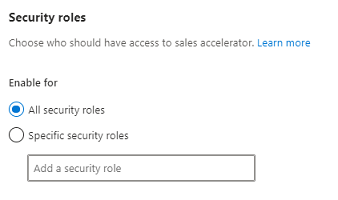
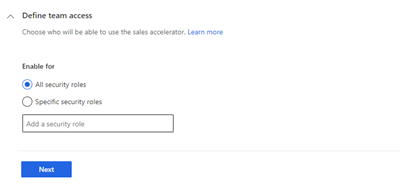
sa setup updated

diff --git a/ai-docs/sales/enable-configure-sales-accelerator.md b/ai-docs/sales/enable-configure-sales-accelerator.md
@@ -1,7 +1,7 @@
 ---
 title: "Enable and configure the Sales accelerator in Dynamics 365 Sales Insights | MicrosoftDocs"
 description: "Learn how to enable and configure the Sales accelerator in Dynamics 365 Sales Insights."
-ms.date: 04/01/2020
+ms.date: 01/11/2020
 ms.service: crm-online
 ms.topic: article
 author: udaykirang
@@ -9,24 +9,14 @@ ms.author: udag
 manager: shujoshi
 ---
 
-# Enable and configure the sales accelerator
+# Configure the sales accelerator
 
-[!INCLUDE [cc-beta-prerelease-disclaimer](../includes/cc-beta-prerelease-disclaimer.md)]
-
-> [!IMPORTANT]
-> - [!INCLUDE[cc_preview_features_definition](../includes/cc-preview-features-definition.md)]  
-> - [!INCLUDE[cc_preview_features_expect_changes](../includes/cc-preview-features-expect-changes.md)]
-> - Microsoft doesn't provide support for this preview feature. Microsoft Technical Support won’t be able to help you with issues or questions. Preview features aren't meant for production use and are subject to a separate [supplemental terms of use](https://go.microsoft.com/fwlink/p/?linkid=870960).
-
-The sales accelerator helps sellers in your organization increase their sales productivity and prioritize activities for the day through the work list available in Sales Hub app. A sales manager uses the sequence designer to create a sequence of activities&mdash;separated by time intervals&mdash;including emails, phone calls, and tasks. The sequence is then applied to leads or opportunities, and assigned to a seller automatically according to your organization's sales strategies.
+The sales accelerator helps sellers in your organization increase their sales productivity and prioritize activities for the day through the work list available in your sales app. An administrator or a sales manager uses  the sequence designer to create a sequence of activities&mdash;separated by time intervals&mdash;including emails, phone calls, and tasks. Sequences are connected to relevant records so sellers can follow the best practices that have been defined in the sequence for the leads and opportunities that are assigned to them. The sequence is then applied to leads or opportunities, and assigned to a seller automatically according to your organization's sales strategies.  
 
 As an administrator, you must enable and configure the sales accelerator in your organization to make it available for sales managers and sellers to use. Follow these steps:
 
-1. [Review the prerequisites and recommendation](#review-the-prerequisites-and-recommendations).
-
-2. [Enable the preview](#enable-the-preview).
-
-3. [Configure the Sales accelerator](#configure-the-sales-accelerator).
+1. [Review the prerequisites and recommendation](#review-the-prerequisites-and-recommendations).    
+2. [Setup the Sales accelerator](#setup-the-sales-accelerator).
 
 ## Review the prerequisites and recommendations
 
@@ -34,73 +24,67 @@ As an administrator, you must enable and configure the sales accelerator in your
 
 Ensure that you meet the following requirements:
 
-- Purchase a **Dynamics 365 Sales Insights** license, or start a trial to use advanced Sales Insights features.
+- Purchase a sales insights license, sales premium license, or start a trial to use advanced Sales Insights features.
 
 - Enable advanced Sales Insights features. More information: [Install and configure premium Sales Insights features](intro-admin-guide-sales-insights.md#install-and-configure-premium-sales-insights-features).
 
 ### Recommendation
 
-For the best experience of the Sales accelerator, enable and configure [predictive lead scoring](configure-predictive-lead-scoring.md) and [predictive opportunity scoring](configure-predictive-opportunity-scoring.md).
+For the best experience of the sales accelerator, enable and configure [predictive lead scoring](configure-predictive-lead-scoring.md) and [predictive opportunity scoring](configure-predictive-opportunity-scoring.md) to display predictive scores for each record in the work list. Displaying the score helps your sellers to prioritize leads and opportunities based on their predicted likelihood to convert .
 
-## Enable the preview
+## Setup the sales accelerator
 
-The sales accelerator is available as a preview feature in Sales Insights. You must enable the preview and accept the preview terms and conditions to use the sales accelerator in your organization.
-
-1. Sign in to Dynamics 365 Sales Hub, and go to **Change area** > **Sales Insights settings**.
-
-2. On the site map, under **Acceleration**, select **Sales accelerator (preview)**.
-
-3. On the settings page, select **I agree to the preview terms and conditions** to enable the preview.
-
-4. Select **Get started**.
-
+1. Sign in to your sales app, and on the bottom-left corner of the page, go to **Change area** > **Sales Insights settings**.     
+2. On the site map, under **Sales accelerator**, select **Setup**.    
+    The sales accelerator configuration page opens.      
+    For first run experience, proceed with step 3. If the feature is already configured and you want to update the configurations proceed to step 4.    
+3. If you are configuring the feature for the first time in your organization, select **Get started**.     
     >[!div class="mx-imgBorder"]
-    >![Enable preview](media/sa-enable-preview.png "Enable preview")
+    >![Sales accelerator first run setup](media/sa-fre-setup.png "Sales accelerator first run setup")    
 
-The sales accelerator is now enabled, and you can configure it for your organization.
-
-## Configure the sales accelerator
-
-1. Sign in to Dynamics 365 Sales Hub, and go to **Change area** > **Sales Insights settings**.
-
-2. On the site map, under **Acceleration**, select **Sales accelerator (preview)**.
-
-3. In the **Content and layout** section, select the **Lead** and **Opportunity** entities and their corresponding related forms, as required. The selected entity records will be displayed to sellers in the Sales Hub app, and sales managers will use the entities to configure the sequence that will be assigned to records to be displayed in the app. By default, the **Lead** and **Opportunity** entities are selected.
-
+    A pop-up message appears to install sample data to explore the feature. Installing the sample data is relevant only for your sandbox or trail environments. Select an option depending on your requirement. Adding the sample data may take few minutes. However, you can choose to ignore the sample data installation and add later when required. To learn more, see [Manage sample data](manage-sample-data.md).    
     >[!div class="mx-imgBorder"]
-    >![Choose content and layout for entities](media/sa-choose-content-layout.png "Choose content and layout for entities") 
+    >![Sample data pop-up message](media/sa-sample-data-popup-message.png "Sample data pop-up message")        
 
-4. In the **Engagement channels** section, configure the following options:
-
-    - Select the **Create records automatically on click** option to automatically create a phone call activity when sellers initiate call from a sequence step or from the work list.
-
-        >[!div class="mx-imgBorder"]
-        >![Choose to automatically create the phone call activity](media/sa-engagement-channel-enable-phonecall-activity.png "Choose to automatically create the phone call activity") 
-
-    -  In **Phone number priority**, select the phone numbers for **Default**, **Fallback1**, and **Fallback2**. When sellers initiate calls through a sequence step or the work list, the softphone chooses the phone numbers in the order they are listed.
-
-        For example, you can select **Business Phone** in **Default**, **Mobile Phone** in **Fallback1**, and **Home Phone** in **Fallback2**. When sellers initiate a call, the number in the **Default** option is dialed, if it is available. If it is not available, the call goes to the next option.      
-
-        >[!NOTE]
-        >For opportunities, the phone number priority will be applied to the primary contacts.
-
-        >[!div class="mx-imgBorder"]
-        >![Choose phone numbers in the order to initiate call](media/sa-engagement-channel-phonecall-priority.png "Choose phone numbers in the order to initiate call")
-
-
-5. In the **Security roles** section, select one of the following options to provide permissions to users to access the Sales Hub app.
-
+    The configuration page opens.    
     >[!div class="mx-imgBorder"]
-    >![Select security role](media/sa-select-security-role.png "Select security role") 
+    >![Sales accelerator setup page](media/sa-setup-page.png "Sales accelerator setup page")        
+4. In the **Define team access** section, select one of the following options to provide permissions to users to use the sales accelerator feature and select **Next**.     
+    >[!div class="mx-imgBorder"]
+    >![Select security roles to access sales accelerator feature](media/sa-select-security-role.png "Select security roles to access sales accelerator feature")   
     
     | Security roles | Description |
     |----------------|-------------|
     | All security roles | Use this option to give access to view the Sales Hub app to all the security roles in your organization. |
-    | Specific security roles | Use this option to specify security roles to give access to view the Sales Hub app to just a few users. Use the lookup box to add the security roles. |
+    | Specific security roles | Use this option to specify security roles to give access to view the Sales Hub app to just a few users. Use the lookup box to add the security roles. |    
+5.	In the **Choose content and layout** section, choose the record types (**Leads** and **Opportunities**) and their corresponding related forms that users use in your organization, as required. Select **Next**.     
+    The selected record type will display the **Sequence (up next)** widget, and sales managers will use the record types to configure the sequence that will be assigned to records to be displayed in the app. By default, the **Leads** and **Opportunities** record types are selected.     
+    >[!NOTE]
+    >If you are using custom record types for leads and opportunities, the name of your custom record type is displayed.    
+    You can also choose custom record type form to display the **Up next** widget for leads and opportunities. To learn more, see [Add the Up next widget to a record type form](add-up-next-widget.md).    
 
-6. Save and publish the configuration.
-    
-    A confirmation message is displayed at the top of the page. Sales managers and sellers can now start using the sales accelerator.
+    >[!div class="mx-imgBorder"]
+    >![Choose content layout](media/sa-choose-content-layout.png "Choose content layout")   
+6. In the Automate activity creation section, choose one of the options as required.  Sequences help sales managers enforce best practices by introducing a set of consecutive activities for sellers to follow during their day. A manager can connect sequences to leads and opportunities that appear in a seller's work queue, to help sellers prioritize activities to focus on selling, be more productive, and better align to business processes.    
+    -	Select **Go to sequences** to create sequences and apply them to records. To learn more, see [Create and manage sequences](create-manage-sequences.md).
+    -	Select **Skip this step** to come back later and create the sequences.
+    >[!div class="mx-imgBorder"]
+    >![Choose an option to create automatic activity creation](media/sa-automatic-activity-creation.png "Choose an option to create automatic activity creation")           
+7.	In the **Set up integrated calls** section, the status of the of the phone system that is integrated through Dynamics 365 Channel Integration Framework is displayed under **Channel Provider**. The phone system allows the sellers to make calls directly through the sales accelerator feature.   The priority of the phone system that is selected for sales accelerator depends on the ranking that is defined in the Channel Integration Framework configuration. To learn more, see [Integrate a sample softphone dialer with Dynamics 365 Sales](integrate-sample-softphone.md).     
+    >[!div class="mx-imgBorder"]
+    >![Status of the of the phone system](media/sa-channel-provider-status.png "Status of the of the phone system")        
+    After the phone system is successfully verified, configure the following advanced call settings:    
+    -	In **Phone number priority**, select the phone numbers for **Default**, **Fallback1**, and **Fallback2**. When sellers initiate calls through a sequence step or the work list, the softphone chooses the phone numbers in the order they are listed.     
+        For example, you can select **Business Phone** in **Default**, **Mobile Phone** in **Fallback1**, and **Home Phone** in **Fallback2**. When sellers initiate a call, the number in the **Default** option is dialed, if it is available. If it is not available, the call goes to the next option.     
+        >[NOTE]
+        >For opportunities, the phone number priority will be applied to the primary contacts.
+    -	In **Call settings**, select the **Create records automatically on click** option to automatically create a phone call activity when sellers initiate call from a sequence step or from the work list.   
+    >[!div class="mx-imgBorder"]
+    >![Advanced call settings](media/sa-advance-call-settings.png "Advanced call settings")       
+8.	Save and publish the configuration.
+    A status message is displayed at the top of the page with details including the time and user who published the configurations. Sales accelerator is ready to use in your organization for the selected security roles.
+    >[!div class="mx-imgBorder"]
+    >![Sales accelerator setup status message](media/sa-setup-status-message.png "Sales accelerator setup status message")
 
 ## Customizations
 
@@ -108,5 +92,5 @@ By default, the **Up next** widget is displayed on the **Default Main** and **Sa
 
 ### See also
 
-[Create and manage sequences](create-manage-sequences.md)  
+[Create and manage sequences](create-manage-sequences.md)     
 [What is the sales accelerator?](sales-accelerator-intro.md)

diff --git a/ai-docs/sales/TOC.md b/ai-docs/sales/TOC.md
@@ -36,7 +36,7 @@
 #### [Take snapshots automatically](manage-snapshots-forecast.md)
 
 ### Configure sales accelerator
-#### [Enable and configure sales accelerator](enable-configure-sales-accelerator.md)
+#### [Configure sales accelerator](enable-configure-sales-accelerator.md)
 #### [Create and manage sequences](create-manage-sequences.md)
 #### [Integrate a sample softphone dialer with Dynamics 365 Sales](integrate-sample-softphone.md)
 
